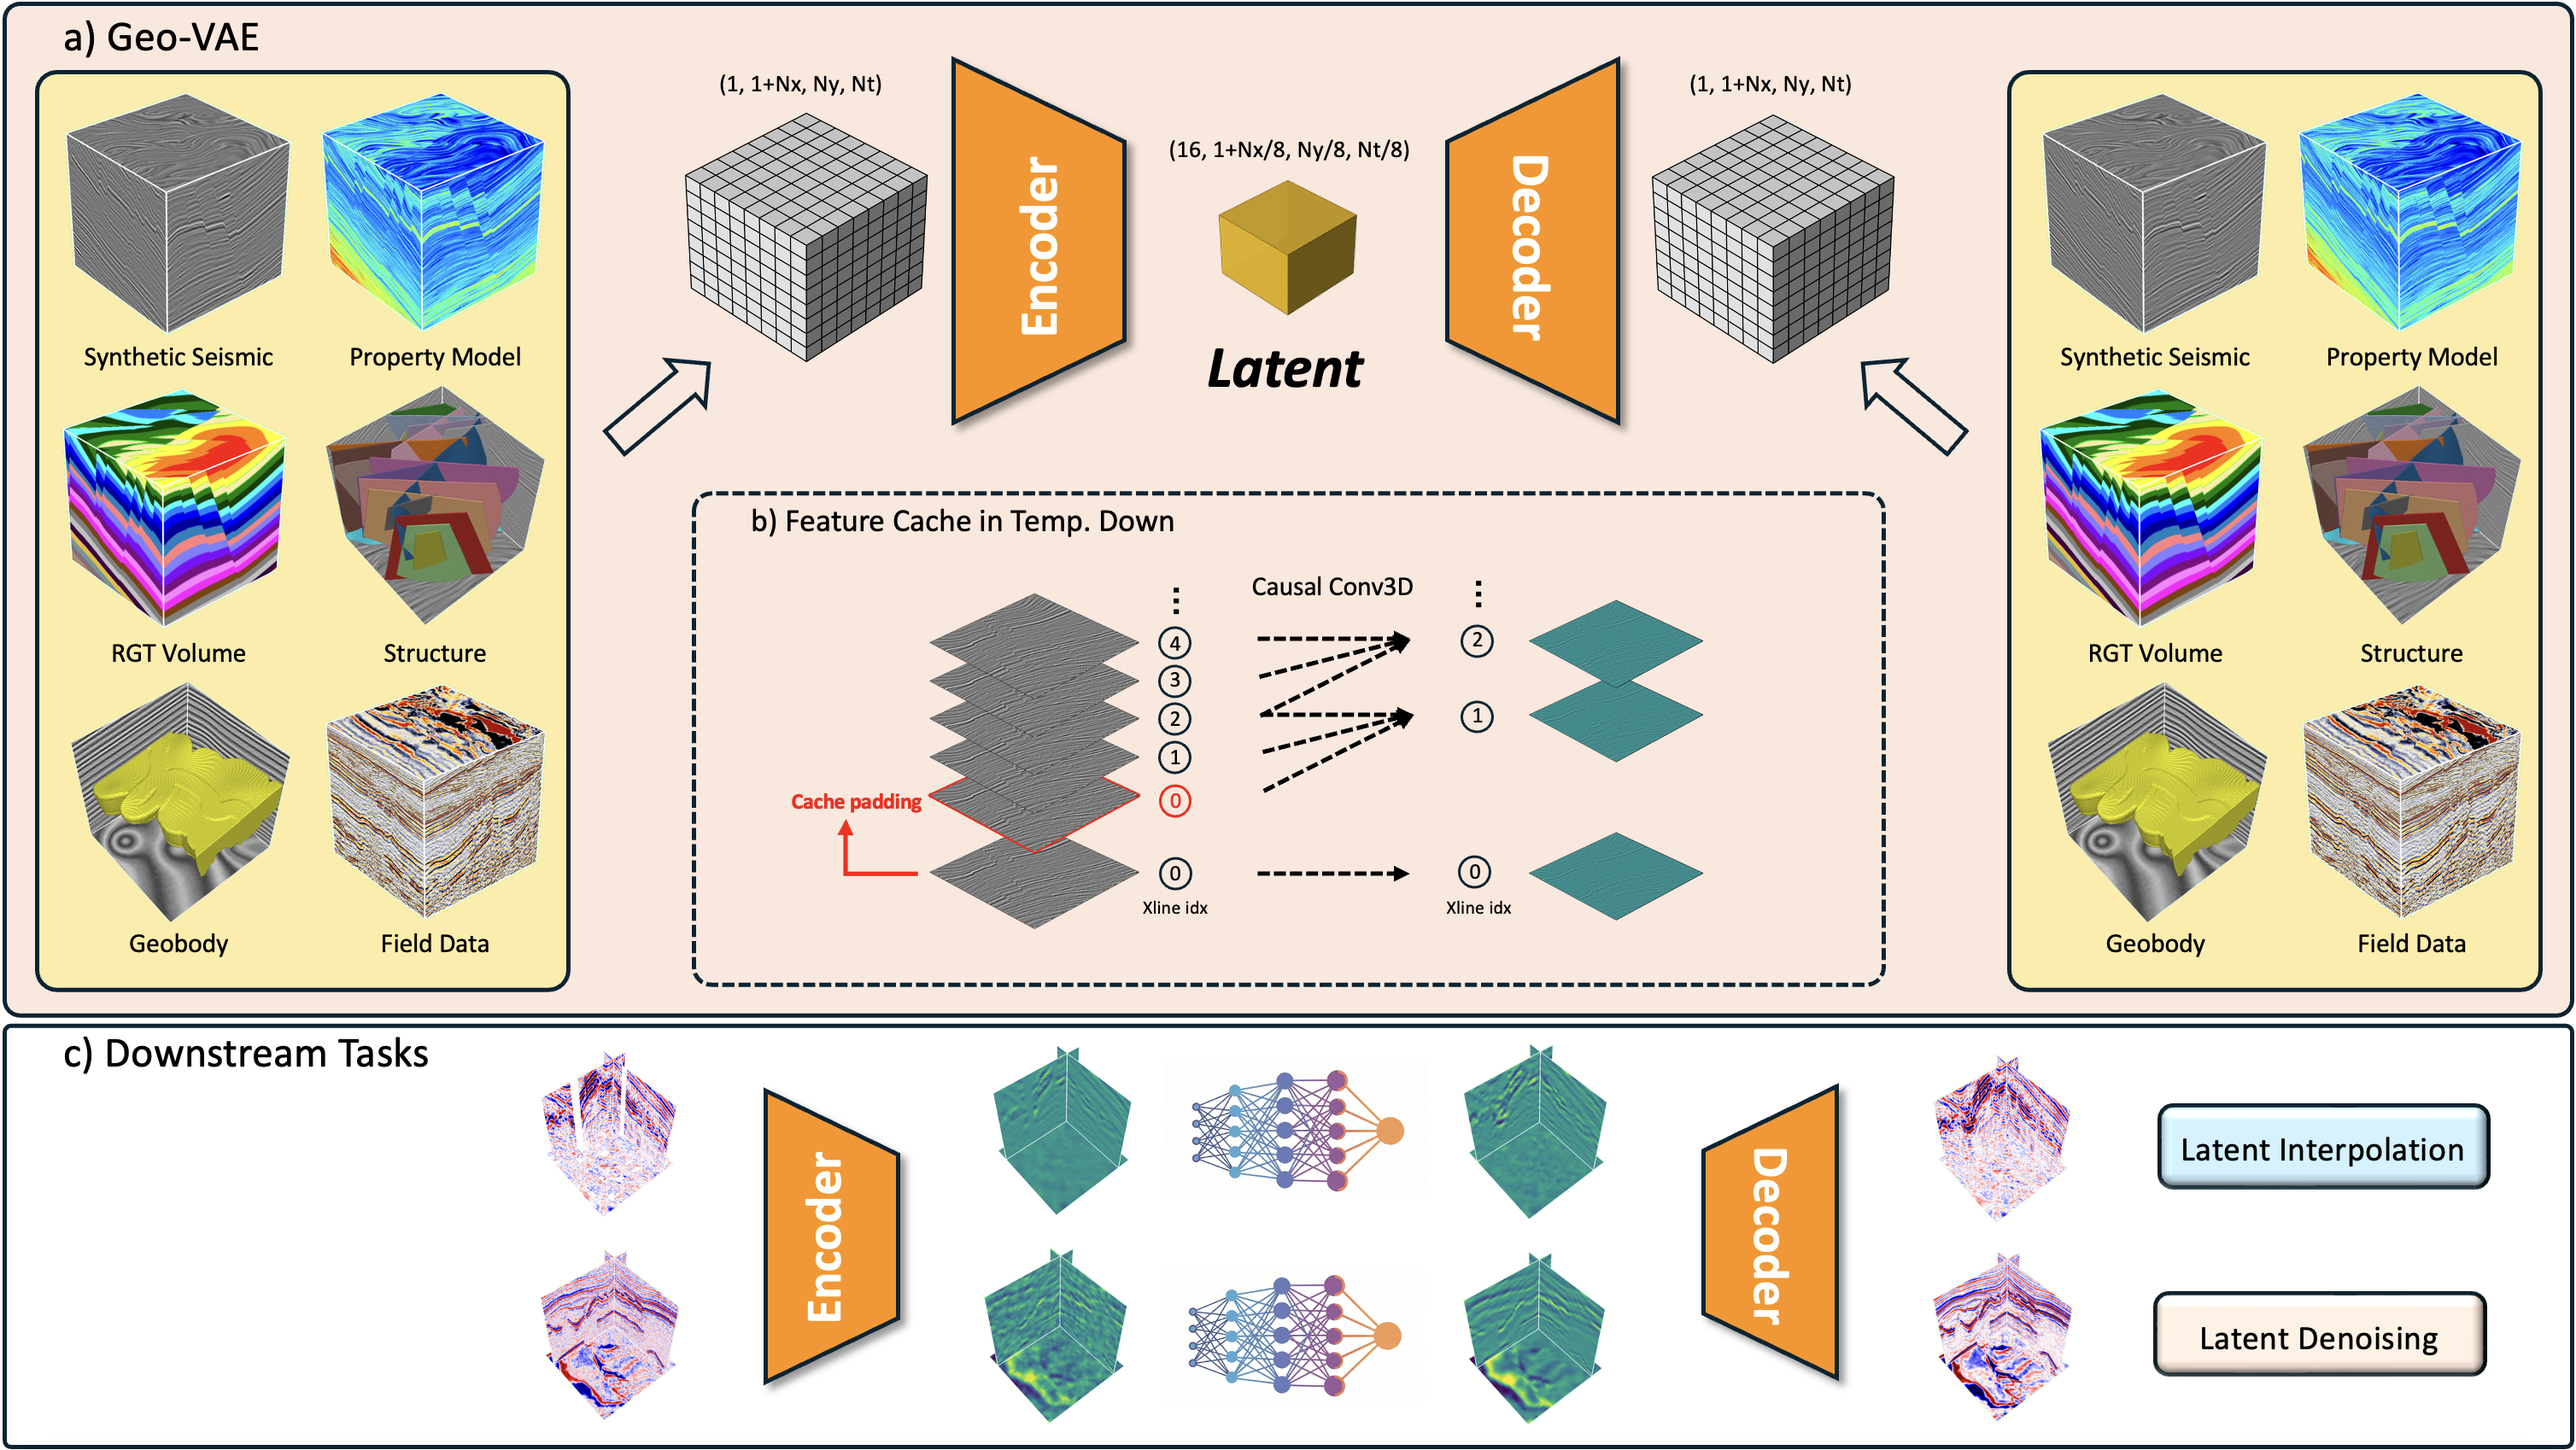
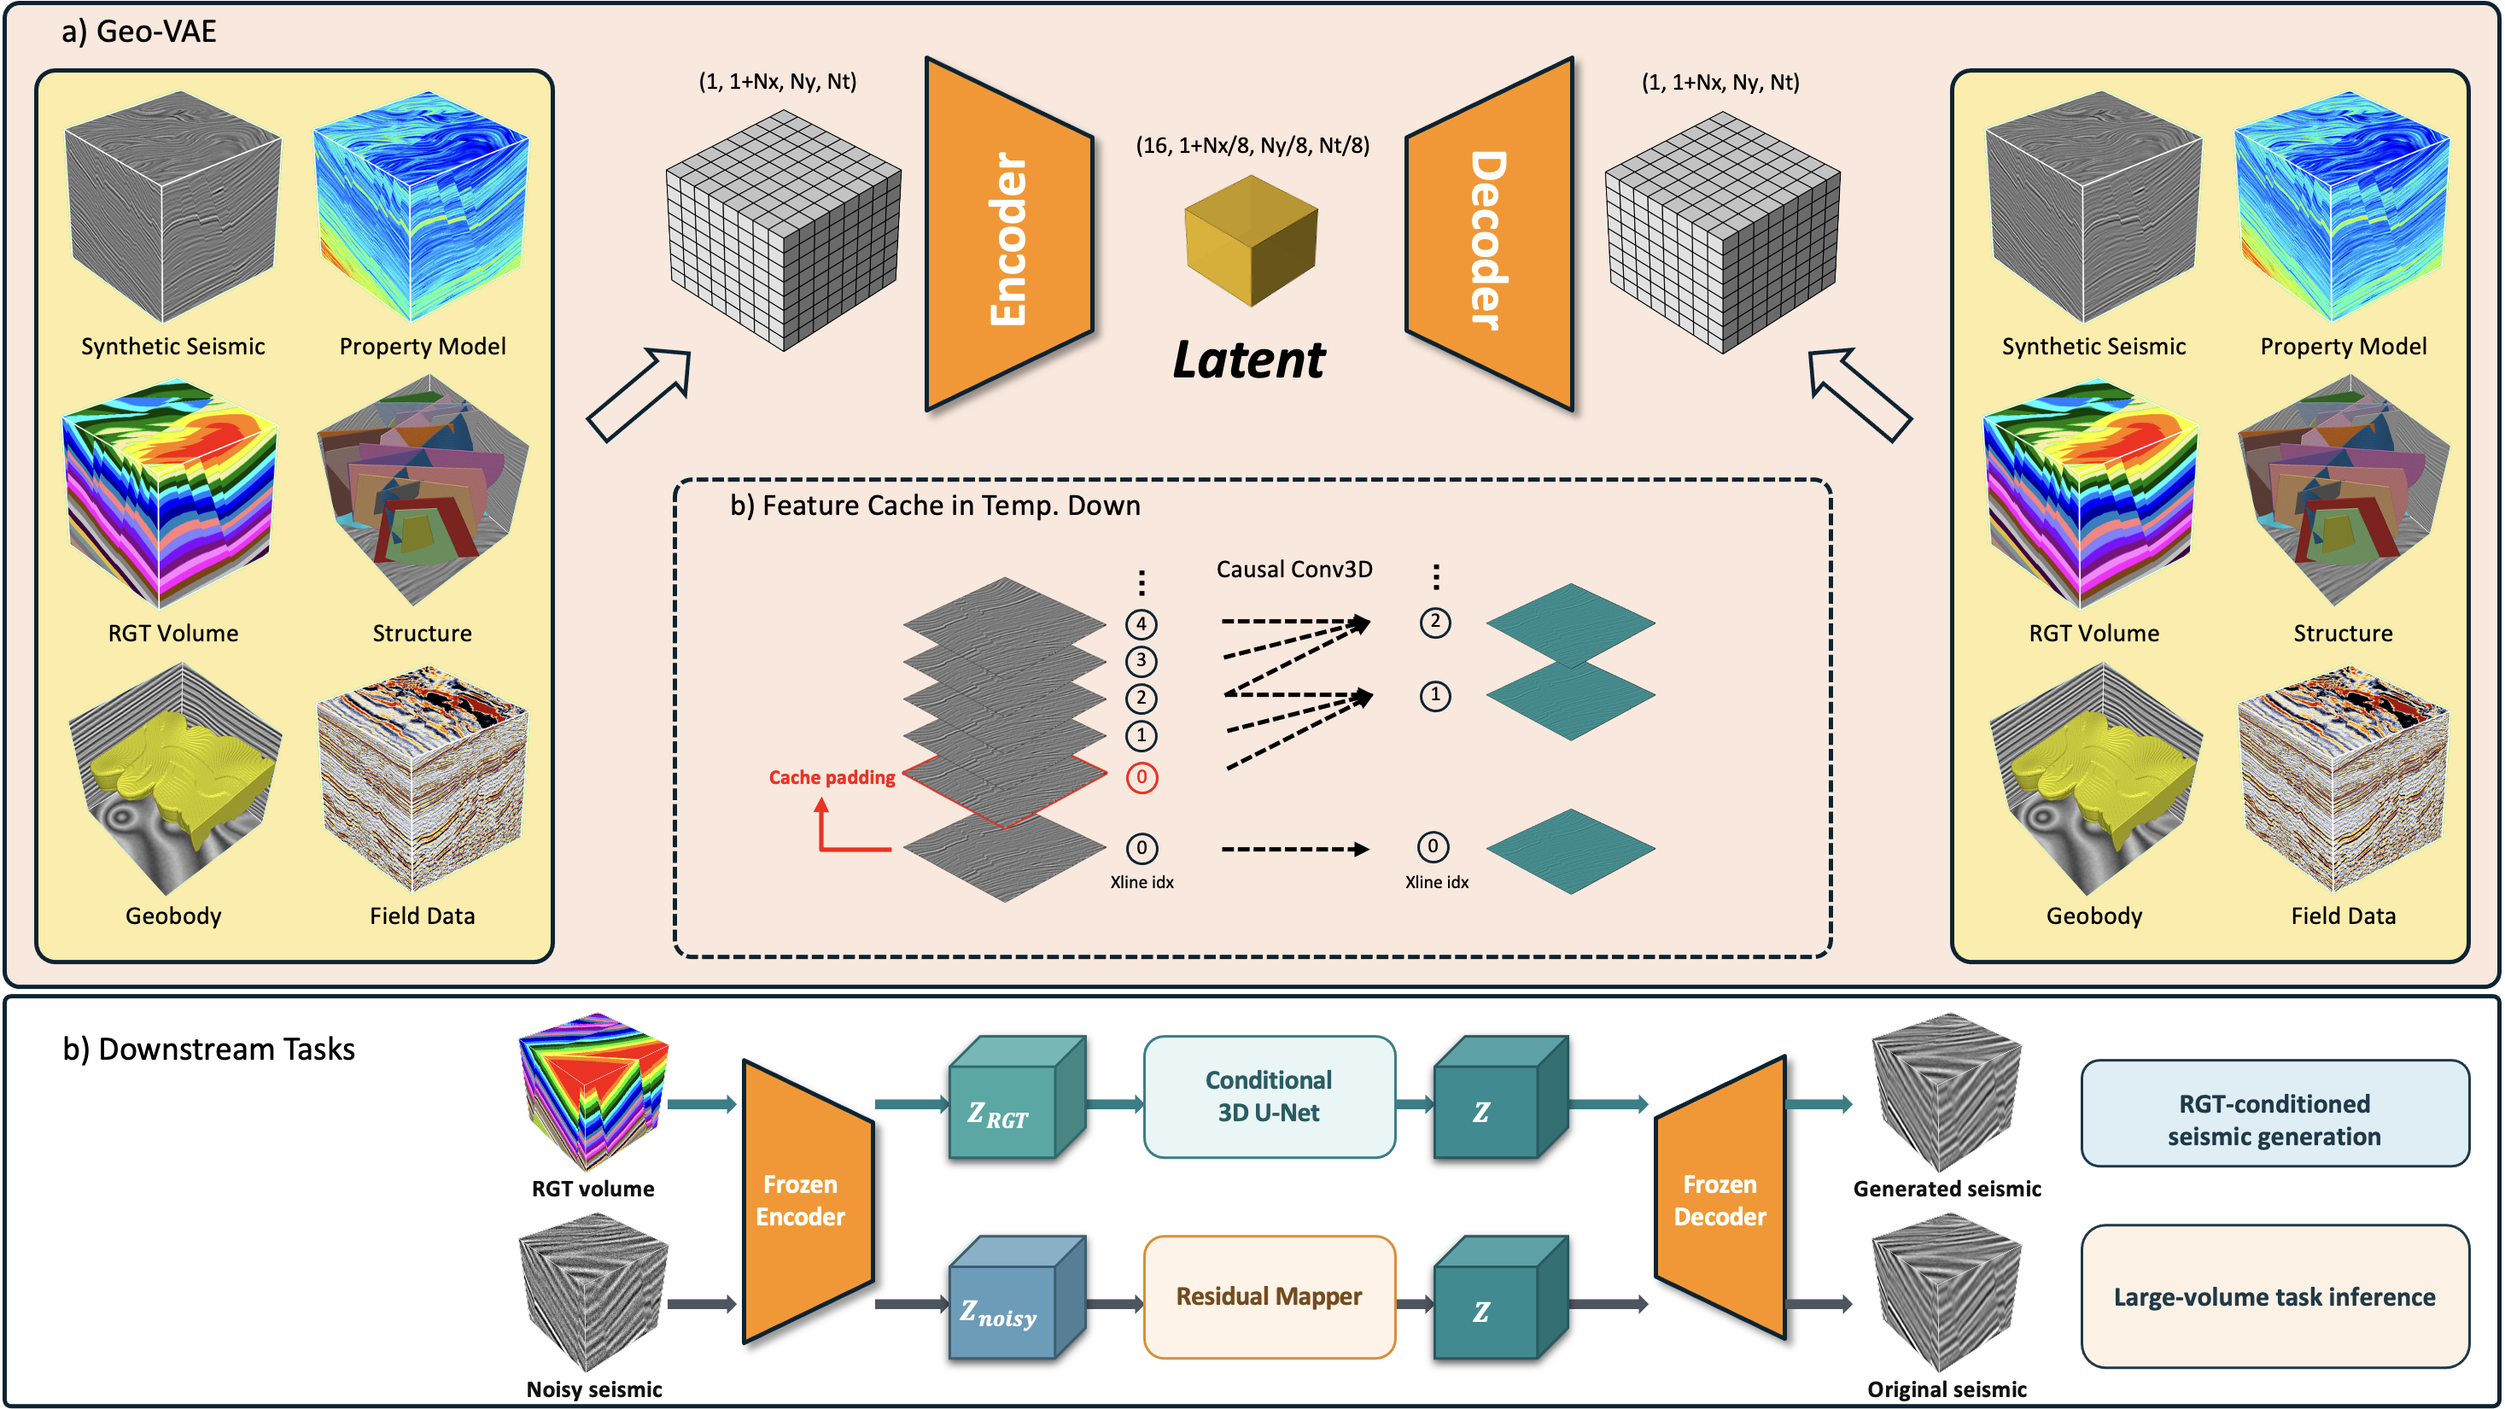
Update research focus overview and CV

diff --git a/index.html b/index.html
@@ -5,7 +5,7 @@
     <meta name="viewport" content="width=device-width, initial-scale=1">
     <meta
       name="description"
-      content="Buyu Deng is a geophysics undergraduate at USTC and an undergraduate research intern at Stanford SCERF. His research focuses on deep learning for seismic data, geomodeling, and CO₂ storage."
+      content="Buyu Deng is a geophysics undergraduate at USTC and an undergraduate research intern at Stanford SCERF. His research focuses on deep learning for seismic data, geomodeling, and Forward Modeling."
     >
     <meta name="author" content="Buyu Deng">
     <meta name="theme-color" content="#8c1515">
@@ -18,7 +18,7 @@
     <meta property="og:title" content="Buyu Deng | AI for Geophysics">
     <meta
       property="og:description"
-      content="Geophysics undergraduate working on deep learning for seismic data, geomodeling, and CO₂ storage."
+      content="Geophysics undergraduate working on deep learning for seismic data, geomodeling, and Forward Modeling."
     >
     <meta property="og:url" content="https://buyudeng.github.io/">
     <meta property="og:image" content="https://buyudeng.github.io/assets/img/og.png">
@@ -29,7 +29,7 @@
     <meta name="twitter:title" content="Buyu Deng | AI for Geophysics">
     <meta
       name="twitter:description"
-      content="Geophysics undergraduate working on deep learning for seismic data, geomodeling, and CO₂ storage."
+      content="Geophysics undergraduate working on deep learning for seismic data, geomodeling, and Forward Modeling."
     >
     <meta name="twitter:image" content="https://buyudeng.github.io/assets/img/og.png">
 
@@ -138,7 +138,7 @@
               <a href="https://scerf.stanford.edu/" target="_blank" rel="noreferrer">Stanford Center for Earth Resources Forecasting (SCERF)</a>,
               working with
               <a href="https://energy.stanford.edu/people/tapan-mukerji" target="_blank" rel="noreferrer">Prof. Tapan Mukerji</a>
-              on geomodeling and CO₂ storage.
+              on geomodeling and Forward Modeling.
             </p>
             <p>
               I plan to pursue a Ph.D. and am broadly interested in Artificial
@@ -174,7 +174,7 @@
               3D geophysical data
             </li>
             <li>
-              Geomodeling, CO₂ storage
+              Geomodeling and Forward Modeling
             </li>
           </ul>
         </section>
@@ -255,8 +255,8 @@
                   <img
                     src="assets/img/geovae-overview.webp"
                     alt="Overview of the Geo-VAE architecture, feature caching, and downstream latent-space tasks"
-                    width="1800"
-                    height="1014"
+                    width="2934"
+                    height="1650"
                     loading="lazy"
                   >
                 </a>

diff --git a/CV/template.tex b/CV/template.tex
@@ -1,0 +1,131 @@
+%!TEX TS-program = xelatex
+%!TEX encoding = UTF-8 Unicode
+\documentclass[10pt,a4paper]{moderncv}
+
+% 1. moderncv 主题
+\moderncvtheme[blue]{classic}
+
+% 2. 页面边距设置
+\usepackage[scale=0.95]{geometry}
+\setlength{\hintscolumnwidth}{3.0cm}
+\recomputelengths % 更改页面布局后必须重新计算
+\usepackage{enumitem}
+\setlist[itemize]{leftmargin=*, itemsep=0.04em, topsep=0.08em, parsep=0em, partopsep=0em}
+
+% 3. (核心) 设置字体
+% 这一步是设置默认的 "英文字体"
+% moderncv 默认会加载 lmodern (Latin Modern) 字体包，它们是高质量的英文字体
+% 我们可以显式声明一下，或者不写这两行（让 moderncv 自动加载）
+%\usepackage{tgheros}
+%\setmainfont{TeX Gyre Heros}
+%\setsansfont{TeX Gyre Heros}
+
+% 4. (核心) 加载 xeCJK 来处理中文
+\usepackage{xeCJK}
+\XeTeXlinebreaklocale "zh" % 允许中文在正确的地方换行
+\widowpenalty=10000
+%\CJKtilde % 修正 CJK 字符和 ~ 之间的距离
+
+% 5. (核心) 单独设置 "中文字体"
+% 您之前设定的字体在这里使用
+% 注意：请确保您的系统中安装了这两个字体，并且字体文件名无误
+\IfFontExistsTF{Hiragino Sans GB}
+  {\setCJKmainfont[Mapping=tex-text]{Hiragino Sans GB}\setCJKsansfont[Mapping=tex-text]{Hiragino Sans GB}}
+  {\setCJKmainfont[Mapping=tex-text]{Noto Sans CJK SC}\setCJKsansfont[Mapping=tex-text]{Noto Sans CJK SC}}
+
+% 6. 个人信息 (保持不变)
+\firstname{}
+\familyname{Buyu Deng}
+\title{邓卜瑜 \normalsize{Born in December 2006}}
+\homepage{https://buyudeng.github.io/}
+\email{buyudeng@stanford.edu}
+\social[github]{BuyuDeng}
+\address{Middle Campus, USTC}{230026 Hefei, Anhui}
+\nopagenumbers{}
+%\extrainfo{Born in December 2006}
+\photo[60pt]{../assets/img/profile.jpg}                 % ‘64pt’是图片必须压缩至的高度、‘0.4pt‘是图片边框的宽度 (如不需要可调节至0pt)、’picture‘ 是图片文件的名字;可选项、如不需要可删除本行
+%\quote{引言(可选项)}                           % 可选项、如不需要可删除本行
+
+% 显示索引号;仅用于在简历中使用了引言
+%\makeatletter
+%\renewcommand*{\bibliographyitemlabel}{\@biblabel{\arabic{enumiv}}}
+%\makeatother
+
+% 分类索引
+%\usepackage{multibib}
+%\newcites{book,misc}{{Books},{Others}}
+%----------------------------------------------------------------------------------
+%            内容
+%----------------------------------------------------------------------------------
+\begin{document}
+\maketitle
+%----------------------------------------------------------------------------------
+\section{\textbf{Education}}
+\cventry
+{2023.09 -- Expected 2027.06}
+{B.S. Candidate}
+{School of the Gifted Young}{}
+{University of Science and Technology of China (USTC)}
+{\textbf{Major:} Geophysics}
+\vspace{0.12em}
+\textbf{GPA:} 3.62/4.30 (\textbf{Rank}: 3/20)
+
+\textbf{Research Interests:} Artificial Intelligence, Subsurface Energy Systems, representation learning and generative models for 3D geophysical data, geomodeling, and Forward Modeling
+%----------------------------------------------------------------------------------
+\section{\textbf{Research Experience}}
+\cventry{2026.07 -- Present}{Undergraduate Research Intern}{\href{https://scerf.stanford.edu/}{\textcolor{blue}{\underline{Stanford Center for Earth Resources Forecasting (SCERF)}}}}{}{Stanford University}{Supervisor: \textbf{Prof. Tapan Mukerji}}
+\vspace{0.08em}
+\begin{itemize}
+    \item Conduct research on geomodeling and Forward Modeling for subsurface energy systems.
+\end{itemize}
+\vspace{0.12em}
+
+\cventry{2024.08 -- Present}{Undergraduate Researcher}{\href{http://cig.ustc.edu.cn/}{\textcolor{blue}{\underline{Computational
+Interpretation Group}}}}{}{}
+{Supervisor: \textbf{Prof. Xinming Wu}}
+\vspace{0.25em}
+
+\textbf{3D "All-in-One" Seismic Denoising}
+\begin{itemize}
+    \item Built a synthetic 3D seismic dataset with random noise, acquisition footprints, and migration artifacts; trained an all-in-one denoising network based on Degradation Representation Learning.\\
+    Code: \href{https://github.com/BuyuDeng/NDR_Seismic}{\textcolor{blue}{\underline{github.com/BuyuDeng/NDR\_Seismic}}}
+\end{itemize}
+\vspace{0.12em}
+
+% --- 第二个小标题：VAE压缩项目 ---
+\textbf{Geo-VAE for 3D Geophysical Data Compression \& Latent Processing}
+\begin{itemize}
+    \item Adapted Wan-VAE into a unified Geo-VAE for seismic volumes, RGT cubes, property models, structures, and geobodies, achieving 8$\times$8$\times$8 volumetric compression with high-fidelity reconstruction.
+    \item Enabled memory-efficient layer-by-layer inference on large 3D volumes using causal 3D convolutions and feature caching, avoiding chunk-boundary artifacts.
+    \item Built latent-space downstream workflows for missing-trace interpolation with a dual-mask latent diffusion model and seismic denoising with an HRNet-style latent mapper.\\
+    Submission: full paper submitted to \textit{Geophysics}; gave an oral presentation at IMAGE 2026.\\
+    Code: \href{https://github.com/BuyuDeng/Geo-VAE}{\textcolor{blue}{\underline{github.com/BuyuDeng/Geo-VAE}}}
+\end{itemize}
+\vspace{0.12em}
+
+\textbf{PHY-to-BGC Ocean Biogeochemical Emulation}
+\begin{itemize}
+    \item Built a 2.5D full-image U-Net emulator mapping global physical ocean fields to coupled BGC variables. The model uses monthly anomaly learning, seasonal/latitudinal auxiliary channels, longitude-circular padding, and global/vertical/basin-scale evaluation.
+    \item Demonstrated that a model trained on normal years maintains strong performance in an El Nino year, suggesting robust generalization under anomalous ocean-climate conditions; \textbf{manuscript in preparation}.
+\end{itemize}
+\vspace{0.2em}
+
+\textbf{GNSS-NISAR Ionospheric Super-Resolution Reconstruction}
+\begin{itemize}
+    \item Developed an automated pipeline to invert high-resolution ionospheric phase delays from NISAR LA/LB dual-frequency InSAR data, convert GNSS TEC differences into L-band ionospheric phase, and align both products in radar/geographic coordinates.
+    \item Next step: train a super-resolution model using GNSS ionospheric phase as the low-resolution background and NISAR-derived phase fields as high-resolution supervision.
+\end{itemize}
+%----------------------------------------------------------------------------------
+
+\section{\textbf{Honors and Awards}}
+
+\cvitem{2025}{\textbf{Zhao Jiuzhang Elite Program Scholarship}, School of Earth and Space Sciences}
+\cvitem{2024}{\textbf{Rose Fund Endeavor Scholarship}, School of the Gifted Young}
+\cvitem{2024}{\textbf{Zhao Jiuzhang Elite Program Scholarship}, School of Earth and Space Sciences}
+\cvitem{2023}{\textbf{Freshman Scholarship}, University of Science and Technology of China (USTC)}
+%----------------------------------------------------------------------------------
+
+\section{\textbf{Experience and Leadership}}
+\cvitem{2025.08}{\textbf{IPGP Geophysical Field Camp}: conducted geophysical surveys and joined academic seminars with faculty from the Institut de Physique du Globe de Paris (IPGP).}
+\cvitem{2025.06 -- 2026.01}{\textbf{Head (Minister)}, Dept. of Cultural \& Sports in College Student Union}
+\end{document}
